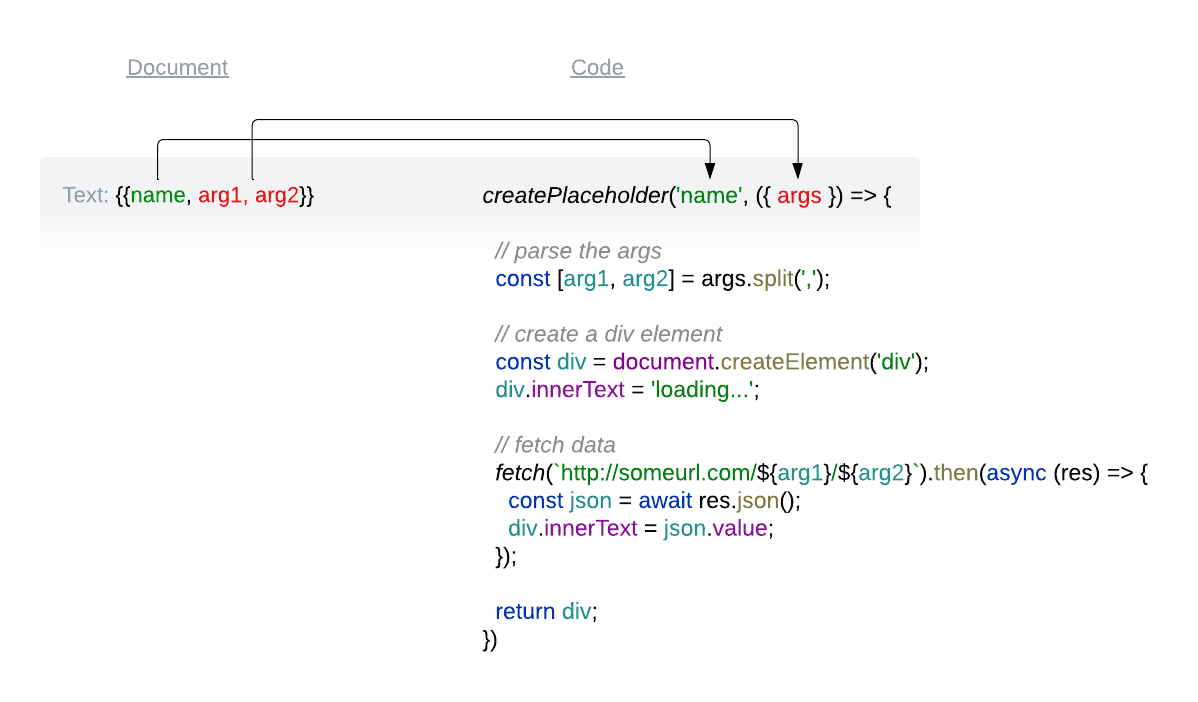
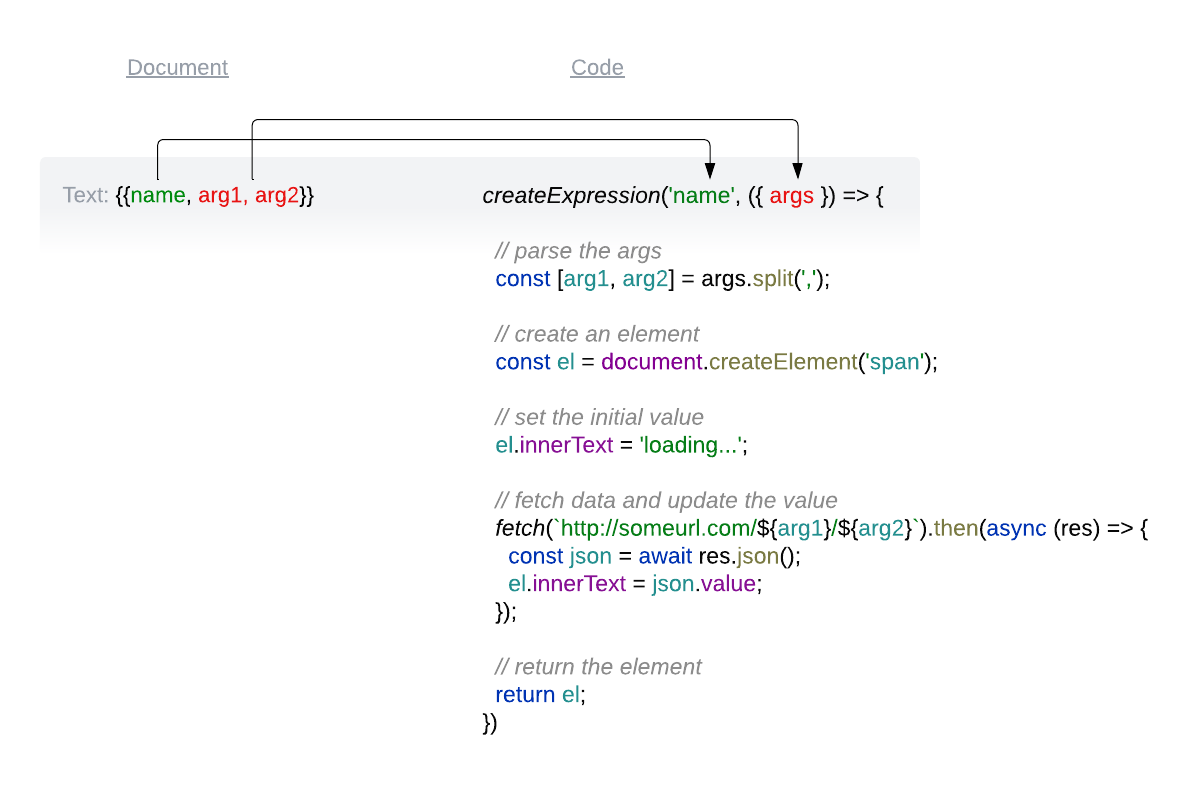
chore: rename project to franklin-expressions due to a naming conflict

diff --git a/src/expressions.test.js b/src/expressions.test.js
@@ -1,8 +1,8 @@
 import {
-  createPlaceholder,
-  renderPlaceholders,
-  setPlaceholderRegex,
-} from './placeholders.js';
+  createExpression,
+  renderExpressions,
+  setExpressionRegex,
+} from './expressions.js';
 
 function fromHtml(html) {
   return document.createRange().createContextualFragment(html).firstChild;
@@ -10,72 +10,72 @@ function fromHtml(html) {
 
 describe('renderPlaceholders', () => {
   test('renders placeholders with no arguments', () => {
-    createPlaceholder('p1', () => fromHtml('<span>text</span>'));
+    createExpression('p1', () => fromHtml('<span>text</span>'));
     const root = fromHtml('<div>text1 {{p1}} text2</div>');
-    renderPlaceholders(root);
+    renderExpressions(root);
     expect(root.innerHTML).toBe('text1 <span class="placeholder p1">text</span> text2');
   });
 
   test('renders placeholders with arguments', () => {
-    createPlaceholder('p1', ({ args }) => fromHtml(`<span>${args}</span>`));
+    createExpression('p1', ({ args }) => fromHtml(`<span>${args}</span>`));
     const root = fromHtml('<div>text1 {{p1, arg1, arg2}} text2</div>');
-    renderPlaceholders(root);
+    renderExpressions(root);
     expect(root.innerHTML).toBe('text1 <span class="placeholder p1">arg1, arg2</span> text2');
   });
 
   test('renders multiple placeholders in a single text node', () => {
-    createPlaceholder('p1', () => fromHtml('<span>1</span>'));
-    createPlaceholder('p2', () => fromHtml('<span>2</span>'));
+    createExpression('p1', () => fromHtml('<span>1</span>'));
+    createExpression('p2', () => fromHtml('<span>2</span>'));
     const root = fromHtml('<div>text1 {{p1}} text {{p2}} text2</div>');
-    renderPlaceholders(root);
+    renderExpressions(root);
     expect(root.innerHTML).toBe('text1 <span class="placeholder p1">1</span> text <span class="placeholder p2">2</span> text2');
   });
 
   test('renders placeholders as text', () => {
-    createPlaceholder('p1', () => 'text');
+    createExpression('p1', () => 'text');
     const root = fromHtml('<div>text1 {{p1}} text2</div>');
-    renderPlaceholders(root);
+    renderExpressions(root);
     expect(root.innerHTML).toBe('text1 text text2');
   });
 
   test('ignores missing placeholders', () => {
     const root = fromHtml('<div>text1 {{missing}} text2</div>');
-    renderPlaceholders(root);
+    renderExpressions(root);
     expect(root.innerHTML).toBe('text1  text2');
   });
 
   test('injects root node', () => {
-    createPlaceholder('p1', ({ root, args }) => {
+    createExpression('p1', ({ root, args }) => {
       root.style.color = args;
     });
     const root = fromHtml('<div>text1 {{p1, red}} text2</div>');
-    renderPlaceholders(root);
+    renderExpressions(root);
     expect(root.outerHTML).toBe('<div style="color: red;">text1  text2</div>');
   });
 
   test('injects parent node', () => {
-    createPlaceholder('p1', ({ parent, args }) => {
+    createExpression('p1', ({ parent, args }) => {
       parent.style.color = args;
     });
     const root = fromHtml('<div><div>text1 {{p1, green}} text2</div></div>');
-    renderPlaceholders(root);
+    renderExpressions(root);
     expect(root.outerHTML).toBe('<div><div style="color: green;">text1  text2</div></div>');
   });
 
   test('injects context', () => {
-    createPlaceholder('p1', ({ context }) => context);
+    createExpression('p1', ({ context }) => context);
     const root = fromHtml('<div>text1 {{p1}} text2</div>');
-    renderPlaceholders(root, 'text');
+    renderExpressions(root, 'text');
     expect(root.outerHTML).toBe('<div>text1 text text2</div>');
   });
 
   test('uses custom regex', () => {
     const fn = jest.fn();
-    createPlaceholder('p1', fn);
-    createPlaceholder('p2', fn);
+    createExpression('p1', fn);
+    createExpression('p2', fn);
     const root = fromHtml('<div>text1 @@p1(arg1, arg2) test2 @@p2(arg1) text3</div>');
-    setPlaceholderRegex(/@@(\w+)(?:\(([^)]*)\))?/g);
-    renderPlaceholders(root);
+    setExpressionRegex(/@@(\w+)(?:\(([^)]*)\))?/g);
+    renderExpressions(root);
     expect(fn).toHaveBeenCalledTimes(2);
     expect(fn).toHaveBeenNthCalledWith(1, expect.objectContaining({ args: 'arg1, arg2' }));
     expect(fn).toHaveBeenNthCalledWith(2, expect.objectContaining({ args: 'arg1' }));

diff --git a/src/expressions.js b/src/expressions.js
@@ -1,6 +1,6 @@
 const DEFAULT_REGEX = /{{\s*(\w+)\s*(?:,\s*([^}]+))?}}/g;
 
-const placeholders = new Map();
+const expressions = new Map();
 
 let regex = DEFAULT_REGEX;
 
@@ -14,10 +14,10 @@ function getTextNodes(root) {
 }
 
 /**
- * Sets the current placeholder regex
+ * Sets the current expression regex
  * @param newRegex
  */
-export function setPlaceholderRegex(newRegex) {
+export function setExpressionRegex(newRegex) {
   regex = newRegex;
 }
 
@@ -28,8 +28,8 @@ export function setPlaceholderRegex(newRegex) {
  * @param name The name of the placeholder
  * @param renderer The renderer function
  */
-export function createPlaceholder(name, renderer) {
-  placeholders.set(name.toLowerCase(), renderer);
+export function createExpression(name, renderer) {
+  expressions.set(name.toLowerCase(), renderer);
 }
 
 /**
@@ -37,7 +37,7 @@ export function createPlaceholder(name, renderer) {
  * @param root The root element to search for placeholders
  * @param context The data to pass to the renderer
  */
-export function renderPlaceholders(root = document.body, context = undefined) {
+export function renderExpressions(root = document.body, context = undefined) {
   getTextNodes(root).forEach((textNode) => {
     const text = textNode.textContent;
     const matches = text.matchAll(regex);
@@ -55,7 +55,7 @@ export function renderPlaceholders(root = document.body, context = undefined) {
         }
 
         const [name, args] = match.slice(1);
-        const renderer = placeholders.get(name.trim().toLowerCase());
+        const renderer = expressions.get(name.trim().toLowerCase());
 
         if (renderer) {
           const result = renderer({

diff --git a/README.md b/README.md
@@ -1,10 +1,10 @@
-# Franklin Placeholders
+# Franklin Expressions
 > Turn documents into dynamic templates with expressions.
 
-Placeholders allow users to transform Franklin documents into templates by adding simple expressions with parameters.
+Expressions allow users to transform Franklin documents into templates by adding simple expressions with parameters.
 These expressions then become HTML elements that display dynamically fetched content.
-It is also possible to use placeholders as decorators to style and augment content around the insertion point. 
-This turns placeholders into reusable fragments that can be placed inside top level Franklin blocks.
+It is also possible to use expressions as decorators to style and augment content around the insertion point. 
+This turns expressions into reusable fragments that can be placed inside top level Franklin blocks.
 
 <img src="docs/diagram.png" alt="diagram" width="800"/>
 
@@ -21,9 +21,9 @@ This turns placeholders into reusable fragments that can be placed inside top le
 - Tiny with no external dependencies.
 
 ## Usage
-- Copy `placeholders.js` to your project's `scripts` directory
-- Create a placeholder by calling `createPlaceholder` with a name and a function returning a string or an element.
-- Render placeholders by calling `renderPlaceholders` in your block's or card's `decorate` function.
+- Copy `expressions.js` to your project's `scripts` directory
+- Create an expression by calling `createExpression` with a name and a function returning a string or an element.
+- Render expressions by calling `renderExpressions` in your block's or card's `decorate` function.
 
 ## Examples
 
@@ -39,7 +39,7 @@ async function fetchProductDetails() {
   });
 }
 
-createPlaceholder('price', ({args}) => {
+createExpression('price', ({ args }) => {
   // get the sku and plan from the args
   const [sku, plan] = args.split(',');
 
@@ -47,9 +47,10 @@ createPlaceholder('price', ({args}) => {
   const el = document.createElement('span');
 
   // fetch the price
-  fetchProductDetails(sku, plan).then((price) => {
-    el.innerText = `$${price}`;
-  });
+  fetchProductDetails(sku, plan)
+    .then((price) => {
+      el.innerText = `$${price}`;
+    });
 
   // crete a value placeholder for the price (CLS friendly)
   el.innerText = 'loading...';
@@ -63,7 +64,10 @@ createPlaceholder('price', ({args}) => {
 The following code decorates a link as a CTA button that triggers a popup:
 
 ```js
-createPlaceholder('cta', ({parent, args}) => {
+createExpression('cta', ({
+  parent,
+  args
+}) => {
 
   // get the first sibling that is a link
   const a = parent.nextElementSibling.querySelector('a');
@@ -91,5 +95,5 @@ createPlaceholder('cta', ({parent, args}) => {
 
 ## Links
 
-- [Live demo](https://main--franklin-placeholders-website--vtsaplin.hlx.page/)
-- [Demo project](https://github.com/vtsaplin/franklin-placeholders-website)
+- [Live demo](https://main--franklin-expressions-website--vtsaplin.hlx.page/)
+- [Demo project](https://github.com/vtsaplin/franklin-expressions-website)
